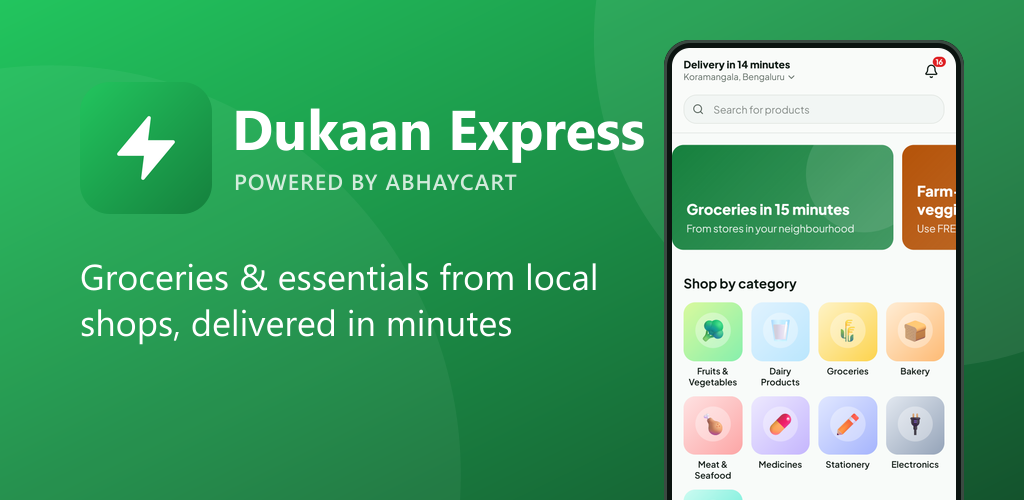
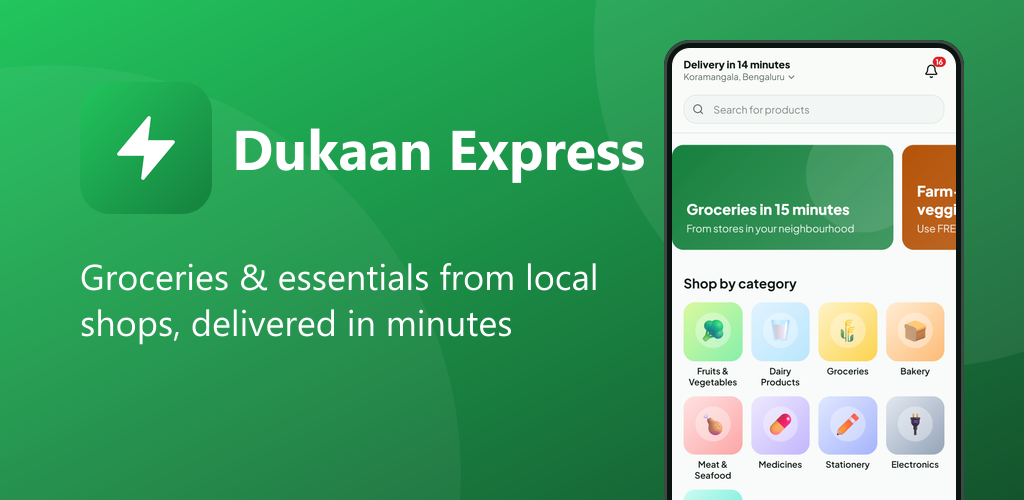
Remove "Powered by AbhayCart" tag
From the site header, auth screens, legal pages, footer, page title,
Play feature graphics and listing text.

Changed region(s): [[0.2188, 0.21, 0.625, 0.39]]

diff --git a/src/components/shared/auth-shell.tsx b/src/components/shared/auth-shell.tsx
@@ -10,19 +10,19 @@ export function AuthShell({ children }: { children: React.ReactNode }) {
           <span className="grid size-9 place-items-center rounded-xl bg-white/20">
             <Zap className="size-5" />
           </span>
-          <BrandName poweredClassName="text-white/80 opacity-100" />
+          <BrandName />
         </Link>
         <div>
           <p className="text-4xl leading-tight font-extrabold">Your neighbourhood stores,<br />delivered in minutes.</p>
           <p className="mt-4 max-w-md text-white/80">Groceries, fresh produce, dairy, medicines and more from trusted local shops near you.</p>
         </div>
         <div className="pointer-events-none absolute -right-24 -bottom-24 size-96 rounded-full bg-white/10" />
-        <p className="text-sm text-white/70">© {new Date().getFullYear()} Dukaan Express · Powered by AbhayCart</p>
+        <p className="text-sm text-white/70">© {new Date().getFullYear()} Dukaan Express</p>
       </div>
       <div className="flex items-center justify-center px-4 py-12">
         <div className="w-full max-w-sm">
           <Link href="/" className="mb-8 flex items-center gap-2 text-lg font-bold text-primary lg:hidden">
-            <Zap className="size-5" /> <BrandName poweredClassName="text-muted-foreground opacity-100" />
+            <Zap className="size-5" /> <BrandName />
           </Link>
           {children}
         </div>

diff --git a/src/components/shared/brand.tsx b/src/components/shared/brand.tsx
@@ -1,14 +1,8 @@
 import { cn } from "@/lib/utils";
 
 export const BRAND_NAME = "Dukaan Express";
-export const POWERED_BY = "AbhayCart";
 
-/** "Dukaan Express" with the "Powered by AbhayCart" line underneath, used wherever the product name is shown. */
-export function BrandName({ name = BRAND_NAME, className, poweredClassName }: { name?: string; className?: string; poweredClassName?: string }) {
-  return (
-    <span className={cn("inline-flex flex-col leading-none", className)}>
-      <span>{name}</span>
-      <span className={cn("mt-0.5 text-[10px] font-medium tracking-wide opacity-70", poweredClassName)}>Powered by {POWERED_BY}</span>
-    </span>
-  );
+/** The product name as shown in headers and auth screens. */
+export function BrandName({ name = BRAND_NAME, className }: { name?: string; className?: string }) {
+  return <span className={cn("leading-none", className)}>{name}</span>;
 }

diff --git a/src/app/layout.tsx b/src/app/layout.tsx
@@ -8,8 +8,8 @@ import "./globals.css";
 const jakarta = Plus_Jakarta_Sans({ subsets: ["latin"], variable: "--font-jakarta", display: "swap" });
 
 export const metadata: Metadata = {
-  title: { default: "Dukaan Express — groceries & essentials in minutes · Powered by AbhayCart", template: "%s · Dukaan Express" },
-  description: "Order from trusted local shops near you and get it delivered in minutes. Dukaan Express is powered by AbhayCart.",
+  title: { default: "Dukaan Express — groceries & essentials in minutes", template: "%s · Dukaan Express" },
+  description: "Order from trusted local shops near you and get it delivered in minutes.",
   applicationName: "Dukaan Express",
 };
 

diff --git a/src/app/legal/layout.tsx b/src/app/legal/layout.tsx
@@ -16,7 +16,7 @@ export default async function LegalLayout({ children }: { children: React.ReactN
       <header className="border-b">
         <div className="mx-auto flex h-14 max-w-7xl items-center justify-between px-4">
           <Link href="/" className="flex items-center gap-2 font-bold text-primary">
-            <Zap className="size-5" /> <BrandName name={c.brand} poweredClassName="text-muted-foreground opacity-100" />
+            <Zap className="size-5" /> <BrandName name={c.brand} />
           </Link>
           <Link href="/" className="text-sm font-medium text-muted-foreground hover:text-foreground">
             Back to shopping

diff --git a/src/components/customer/header.tsx b/src/components/customer/header.tsx
@@ -31,7 +31,7 @@ export function CustomerHeader({ user, location, eta }: Props) {
           <span className="grid size-8 place-items-center rounded-lg bg-primary text-primary-foreground">
             <Zap className="size-4" />
           </span>
-          <BrandName className="hidden lg:inline-flex" poweredClassName="text-muted-foreground opacity-100" />
+          <BrandName className="hidden lg:inline-flex" />
         </Link>
         <div className="min-w-0 flex-1 sm:max-w-56 sm:flex-none">
           <LocationPicker current={location} loggedIn={!!user} eta={eta} />

diff --git a/src/components/shared/site-footer.tsx b/src/components/shared/site-footer.tsx
@@ -1,5 +1,4 @@
 import Link from "next/link";
-import { POWERED_BY } from "./brand";
 
 const LINKS = [
   { href: "/legal/terms", label: "Terms of Use" },
@@ -24,7 +23,7 @@ export function SiteFooter({ brand = "Dukaan Express", entity }: { brand?: strin
           ))}
         </nav>
         <p className="text-xs text-muted-foreground">
-          © {new Date().getFullYear()} {entity || brand} · Powered by {POWERED_BY}
+          © {new Date().getFullYear()} {entity || brand}
         </p>
       </div>
     </footer>

diff --git a/mobile/play-store/LISTING.md b/mobile/play-store/LISTING.md
@@ -28,7 +28,7 @@ Website:          BASE
 1. **Developer account:** play.google.com/console → sign up (US$25).
    - Choose **Organization** if you have a registered business. It needs a D-U-N-S number (free, takes about 1–2 weeks).
    - A **Personal** account has to run a *closed test with at least 12 testers for 14 days in a row* before it can publish to production.
-   - **Developer name: `AbhayCart`.** Play shows it right under the app name, so the listing reads *"Dukaan Express · AbhayCart"*, which is your "Powered by AbhayCart".
+   - **Developer name:** your business or brand name. Play shows it right under the app name.
 2. **Admin → Settings on the live site:**
    - **Platform:** set your real support email and phone. They still show the placeholders `support@dukaanexpress.in` and `1800-123-4567`, and the policy pages display them.
    - **Legal & business:** fill in business name, address, GSTIN and grievance officer.
@@ -77,8 +77,6 @@ HOW IT WORKS
 
 SAFE AND PRIVATE
 Your account is protected with a password and a verified email address. Payments are processed securely by Cashfree Payments — we never see your card number or UPI PIN. You can delete your account at any time from the app.
-
-Dukaan Express is powered by AbhayCart.
 
 Questions? Write to us from the Help section of any order, or see our policies at https://dukaan-app.bluesky-9c69274d.centralindia.azurecontainerapps.io/legal
 ```
@@ -129,8 +127,6 @@ GET PAID WHEN YOU WANT
 • Track every payout with its bank reference number
 
 Dukaan Partner is for registered sellers on Dukaan Express. To start selling, contact the Dukaan Express team to get your shop approved.
-
-Dukaan Express is powered by AbhayCart.
 ```
 
 **Release notes**
